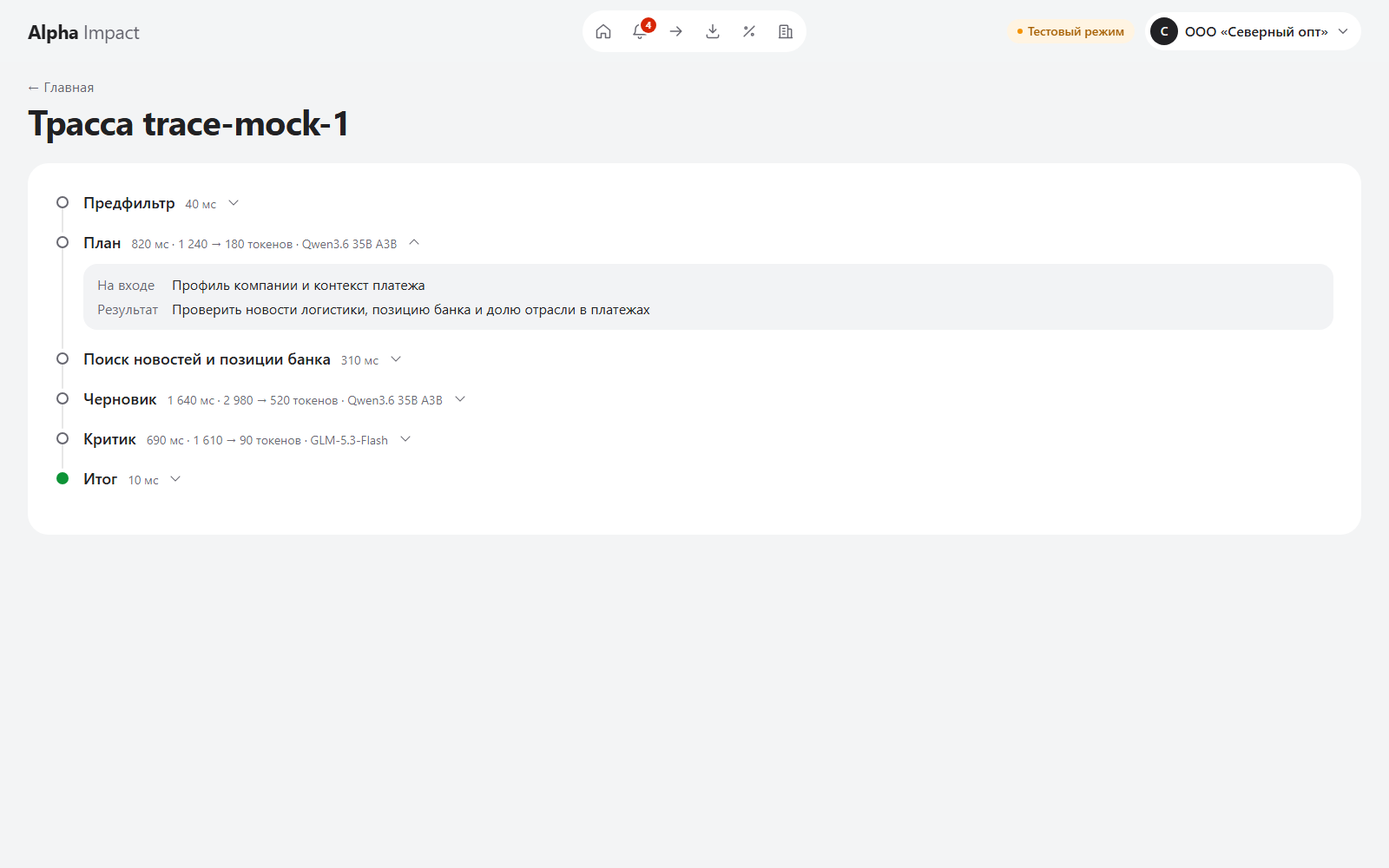
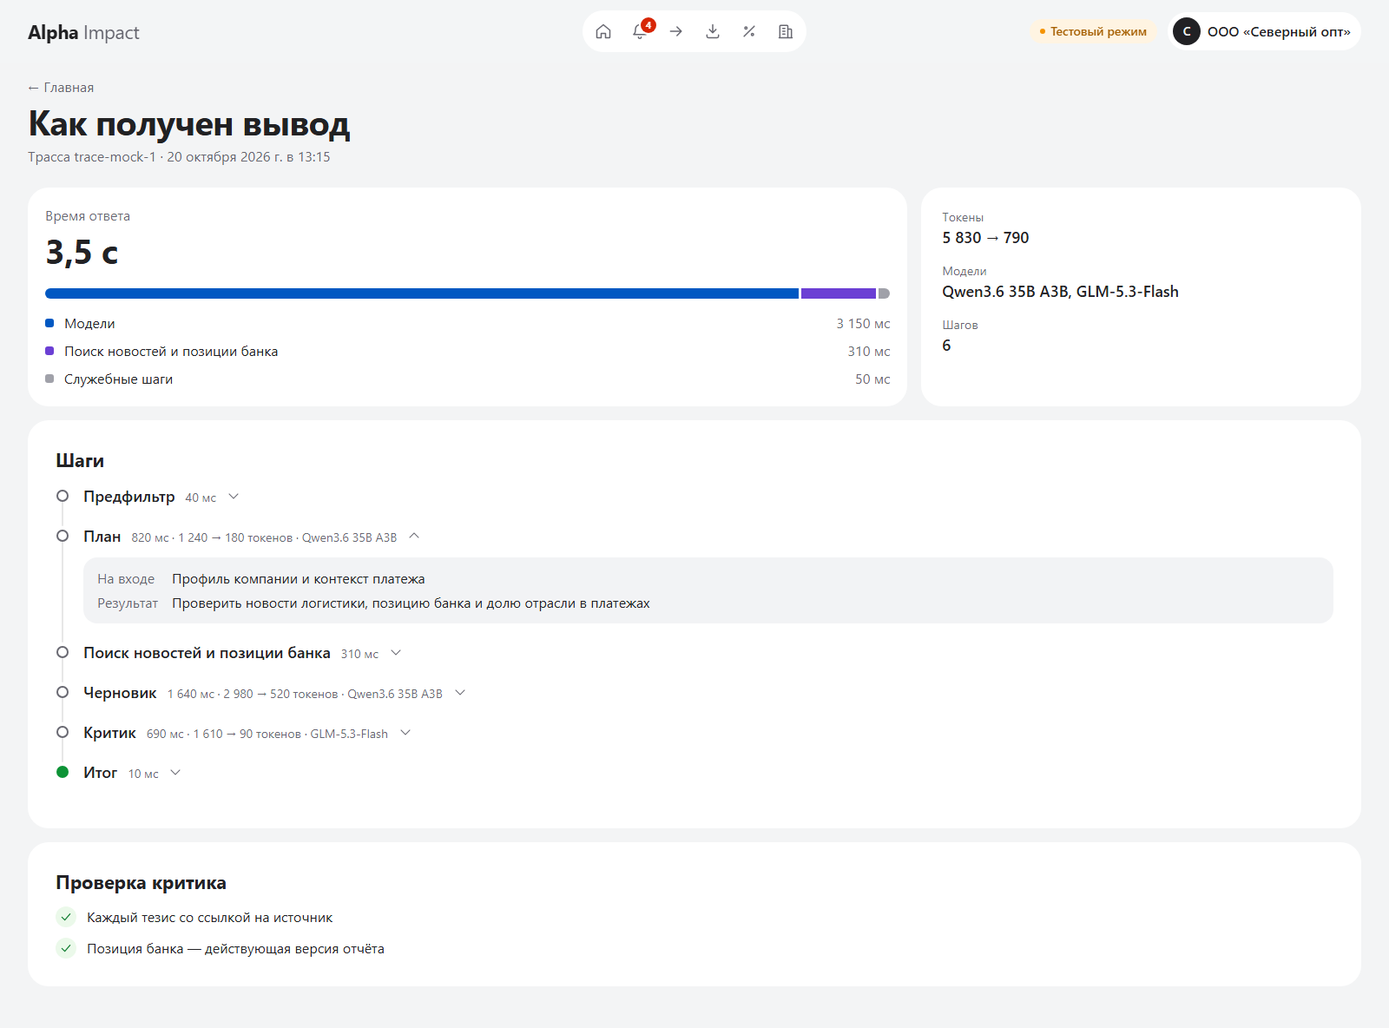
- Завести AH-61 в BACKLOG и в очередь Участника 1 в TEAM - docs/design: контролы, графики, профиль по разделам; скриншоты пересняты, добавлены события, депозит, кредиты и вход - Записать решение: свой Select вместо нативного, графики без библиотек, демо-ряды только для компаний из словаря

diff --git a/frontend/tests/design/screenshots.spec.ts b/frontend/tests/design/screenshots.spec.ts
@@ -29,7 +29,8 @@ test.describe("dark theme", () => {
 
 test("payment with the panel", async ({ page }) => {
   await page.goto("/payments/new");
-  await page.getByLabel("Получатель").selectOption({ label: "ООО «Северо-Западная логистика»" });
+  await page.getByRole("combobox", { name: "Получатель" }).click();
+  await page.getByRole("option", { name: /Северо-Западная логистика/ }).click();
   await page.getByLabel("Сумма, ₽").fill("1500000");
   await page.getByRole("heading", { name: "Платёж контрагенту" }).click();
   await expect(page.locator(".insight-card").first()).toBeVisible({ timeout: 60_000 });
@@ -40,6 +41,31 @@ test("profile", async ({ page }) => {
   await page.goto("/profile");
   await expect(page.getByRole("heading", { name: "Профиль компании" })).toBeVisible();
   await page.screenshot({ path: path.join(OUTPUT, "profile.png"), fullPage: true, animations: "disabled" });
+});
+
+test("events", async ({ page }) => {
+  await page.goto("/events");
+  await expect(page.getByRole("heading", { name: "Все события" })).toBeVisible();
+  await page.screenshot({ path: path.join(OUTPUT, "events.png"), fullPage: true, animations: "disabled" });
+});
+
+test("deposit", async ({ page }) => {
+  await page.goto("/deposits/new");
+  await page.getByLabel("Сумма, ₽").fill("10000000");
+  await page.getByRole("heading", { name: "Разместить средства" }).click();
+  await page.screenshot({ path: path.join(OUTPUT, "deposit.png"), fullPage: true, animations: "disabled" });
+});
+
+test("loans", async ({ page }) => {
+  await page.goto("/loans");
+  await expect(page.getByRole("table", { name: "Кредитный портфель" })).toBeVisible();
+  await page.screenshot({ path: path.join(OUTPUT, "loans.png"), fullPage: true, animations: "disabled" });
+});
+
+test("login", async ({ page }) => {
+  await page.goto("/login");
+  await expect(page.getByRole("heading", { name: "Вход" })).toBeVisible();
+  await page.screenshot({ path: path.join(OUTPUT, "login.png"), fullPage: true, animations: "disabled" });
 });
 
 test("trace", async ({ page }) => {

diff --git a/docs/design/README.md b/docs/design/README.md
@@ -29,7 +29,22 @@
 - **Честная ошибка.** «Не успел разобраться с этим действием» и «Попробовать ещё раз», без технических слов.
 - **Значимость — три растущих столбика**, а не процент и не «high / medium»; на высшем уровне столбики красные.
 - **Навигация сверху.** Разделы — иконки в пилюле по центру шапки, у активного видна подпись; у «Событий» — число событий компании. На телефоне пилюля плавает внизу экрана.
-- **Главная — плитки.** Лента событий, тёмная плитка счёта, красная плитка платежа и плитки депозита и кредитов со сводкой раздела.
+- **Главная — плитки.** Лента из четырёх самых значимых событий, тёмная плитка счёта с остатком за 30 дней, красная плитка платежа, «Движение денег» по неделям и плитки депозита и кредитов со сводкой раздела.
+- **Главное число крупно, остальное — вторично.** На кредитах и в трассе одна сводная цифра (общая сумма, время ответа) с полосой структуры, рядом — мелкие факты; ряда одинаковых плиток нет.
+- **Профиль — разделы, а не плитки.** Признаки собраны в «Компания», «География», «Масштаб», «Отношения с банком» строками «подпись — значение — источник»; коды банка показаны словами, значения капслоком — обычным регистром.
+
+## Контролы
+
+Нативных `select` нет: их список не красится под токены и тёмную тему.
+
+- **`Select`** (`application/src/ui/Select.tsx`) — select-only combobox из WAI-ARIA: кнопка `role="combobox"` с подписью внутри, как у полей, список `listbox` с тенью `--shadow-raised`; ↑ ↓ Home End PageUp PageDown, Enter и пробел выбирают, Esc закрывает, ввод букв ищет опцию и без юрформы («к» → «ООО «Канцмир»»), клик снаружи закрывает. У опции — вторая строка (описание контрагента, номер счёта) и монограмма. Вариант `pill` — переключатель компании в шапке.
+- **Поле суммы** — крупные цифры `tabular-nums`, суффикс «₽», форматирование при потере фокуса.
+- **Выбор роли** — карточки-радио с подписью «на что обратит внимание»; выбранная — белая с графитовой рамкой и галочкой.
+- **Назначение платежа** растёт по тексту (`field-sizing: content`), ручного ресайза нет.
+
+## Графики
+
+Свои компоненты в `application/src/ui/charts/` на токенах, без библиотек: `Sparkline` (остаток за 30 дней), `Columns` (движение денег по неделям, доход депозита по сроку — выбранный срок ярче), `ShareBar` (структура кредитов, на что ушло время в трассе). Цвет серии — `data-tone`: `primary` — основная серия, `soft` и `muted` — вторичные, `ai` и `bank` — та же кодировка, что у бейджей «AI» и «Банк». Цвет всегда продублирован подписью в легенде, у столбиков есть скрытая таблица для скринридера. Демо-ряды (остаток, движение денег) помечены «демо-данные».
 
 ## Скриншоты
 
@@ -40,7 +55,11 @@
 | Главный экран с виджетом «Что важно для вашего бизнеса» | `dashboard.png` |
 | Главный экран в тёмной теме | `dashboard-dark.png` |
 | Платёж с панелью справа | `payment.png` |
-| Профиль: факты банка и выведенные признаки | `profile.png` |
+| Профиль: признаки по разделам | `profile.png` |
+| События по значимости | `events.png` |
+| Депозит с доходом по сроку | `deposit.png` |
+| Кредиты: структура портфеля и сроки | `loans.png` |
+| Вход | `login.png` |
 | Трасса «как получен вывод» | `trace.png` |
 | Панель рядом с формой, 400 px | `panel-400.png` |
 | Панель в side panel расширения, 320 px, `compact` | `panel-320.png` |
@@ -51,7 +70,7 @@
 
 - Логотип, wordmark и шрифт Alfa Interface Sans банка: продукт назван текстом «Alpha Impact», Inter стоит только в font-stack, без загрузки файлов шрифта. Onest из прототипа редизайна (AH-59) тоже не загружается.
 - Переключатель темы в интерфейсе: тема следует настройке ОС.
-- `@alfalab/core-components` и другие UI-библиотеки: новых зависимостей нет.
+- `@alfalab/core-components`, другие UI-библиотеки и библиотеки графиков: новых зависимостей нет.
 - Анимации дольше 300 мс и анимации при `prefers-reduced-motion`.
 - Отдельную вёрстку панели под каждую ширину. Узкий контейнер (side panel расширения) передаёт `compact`; кроме этого, блок «Продукт банка» сам встаёт в одну колонку, когда панель уже 440 px (контейнерный запрос `insight-panel`). Поэтому страница, которая встраивает панель, должна дать ей ширину: в «резиновом» по содержимому контейнере (inline-block, flex-элемент без ширины) панель схлопнется.
 - Отдельное поле «признаки компании» в контракте. Чипы берутся из `source_ref.title` тезисов с источником `profile` и `graph`; новое поле — задача типа contract.

diff --git a/docs/decisions/mikhail.md b/docs/decisions/mikhail.md
@@ -42,3 +42,4 @@
 - 2026-10-21: редизайн фронта по прототипу владельца (AH-59): навигация переехала из боковой колонки в шапку — иконки в пилюле по центру, у «Событий» число событий компании (скрыто от скринридера, имя ссылки остаётся «События»), на телефоне пилюля плавает внизу; главная — плитки; тёмная тема включается настройкой ОС или `data-theme`, переключателя в интерфейсе нет; ширина макета и крупный шрифт из решения AH-52 сохраняются
 - 2026-10-21: новые токены и тёмная тема — в `frontend/app-plugin/src/styles/tokens.css`, стили InsightPanel — в самом плагине, а не переопределениями `body …` из приложения, как в прототипе: так расширение и витрина выглядят так же, источник токенов остаётся один; шрифт — по-прежнему Inter в font-stack без загрузки файлов, Onest из прототипа не подключается (AH-59)
 - 2026-10-22: фронт ходит в настоящий API (AH-20): компании — из `GET /clients` по id `U_…`, витринные имена, счёт и баланс — словарь фронта `data/companies.ts` (на бэкенде имён нет, клиент вне словаря показывается своим id, с пустым номером счёта и балансом 0); контрагенты платежа — реальные получатели оптовика `U_1941` из платежей (`U_96105` — грузоперевозки, «Канцмир» — мелкий получатель не из логистики, на котором `/interpret` молчит), а не `cp_*`, которых на бэкенде нет; `user_id` после входа и роль по пользователю хранятся в localStorage (cookie сессии httpOnly), роль выбирается один раз на `/role`; подтверждение профиля — кнопка «Всё верно» на `/profile`, куда ведёт вход
+- 2026-10-22: в приложении нет нативных `select` (AH-61): свой `Select` по шаблону select-only combobox из WAI-ARIA (кнопка `role="combobox"`, список `listbox`, `aria-activedescendant`, поиск по первым буквам без юрформы) — нативный список не красится под токены и в тёмной теме; клиентские графики — свои HTML/SVG-компоненты на токенах, без библиотек; данные для остатка за 30 дней и движения денег — демо-словари фронта по id компании с пометкой «демо-данные», у компании вне словаря график не показывается, а не рисуется нулями

diff --git a/docs/BACKLOG.md b/docs/BACKLOG.md
@@ -1,6 +1,6 @@
-# BACKLOG — задачи AH-1…AH-59
+# BACKLOG — задачи AH-1…AH-61
 
-Единственный список задач: 5 эпиков и 53 задачи, номера AH-1…AH-59 (AH-17 не используется). Как выполнять задачу — `docs/PIPELINE.md`, кто и в каком порядке — `docs/TEAM.md`. Текст задачи и «Готово, когда» берутся отсюда; при расхождении с Jira прав этот файл.
+Единственный список задач: 5 эпиков и 54 задачи, номера AH-1…AH-61 (AH-17 не используется). Как выполнять задачу — `docs/PIPELINE.md`, кто и в каком порядке — `docs/TEAM.md`. Текст задачи и «Готово, когда» берутся отсюда; при расхождении с Jira прав этот файл.
 
 ## Формат задачи
 
@@ -323,6 +323,12 @@
 - Ответственный: Участник 1
 - Что сделать: `frontend/tests/e2e/demo.spec.ts` по `docs/DEMO.md`: вход → профиль → виджет → платёж с карточкой → платёж с молчанием → депозит → смена роли → живая новость → трасса; запускается `npm run e2e` против поднятого compose.
 - Готово, когда: сценарий зелёный локально и в CI (против поднятого compose с seed и прогретым кэшем).
+
+### AH-61 · Полировка клиентского кабинета
+- Эпик: AH-34 · День: 4 · Тип: feat · Зависит от: AH-20
+- Ответственный: Участник 1
+- Что сделать: свои контролы вместо нативных (`Select` по шаблону combobox из WAI-ARIA для компании, получателя и отрасли, поле суммы с ₽, карточки выбора роли); свои SVG-графики на токенах без библиотек (остаток за 30 дней, движение денег по неделям, доход депозита по сроку, структура кредитов, время шагов трассы); плотнее и аккуратнее главная, события, платёж, депозит, кредиты, профиль, трасса, вход и роль.
+- Готово, когда: нативных `select` в приложении нет, `Select` работает с клавиатуры и скринридером; на 1440, 1280, 1024, 768 и 390 px ничего не наезжает и нет горизонтального скролла страницы, светлая и тёмная тема без цветов вне токенов; vitest, oxlint и build зелёные, скриншоты в `docs/design` пересняты.
 
 
 ## Эпик AH-43 · Сдача: README, лицензии, тег, репетиция (день 5)

diff --git a/docs/TEAM.md b/docs/TEAM.md
@@ -35,9 +35,10 @@
 | 4 | 15 | AH-36 Расширение: content script и side panel | |
 | 4 | 16 | AH-41 Живая новость (UI) | КТ2 |
 | 4 | 17 | AH-42 E2E Playwright: сценарий демо | КТ2 |
-| 5 | 18 | AH-44 README и сценарий проверки | |
-| 5 | 19 | AH-45 Лицензии, lock-файлы, релиз | тег до дедлайна |
-| 5 | 20 | AH-47 Репетиция демо, резерв, презентация | три прогона, видео, слайды |
+| 4 | 18 | AH-61 Полировка клиентского кабинета | после AH-20: свои контролы и графики на всех экранах до демо |
+| 5 | 19 | AH-44 README и сценарий проверки | |
+| 5 | 20 | AH-45 Лицензии, lock-файлы, релиз | тег до дедлайна |
+| 5 | 21 | AH-47 Репетиция демо, резерв, презентация | три прогона, видео, слайды |
 ## Участник 2 — Данные, знания и платформа бэкенда
 
 Отвечает за паспорт клиента, агрегаты графа, house view с версиями и индекс новостей — всё, что агент читает через инструменты, — и за то, что сервисы собираются без ручных реестров, проект разворачивается на сервере и не отдаёт чужих данных. OCR долгий — запустить фоном сразу после AH-48.
